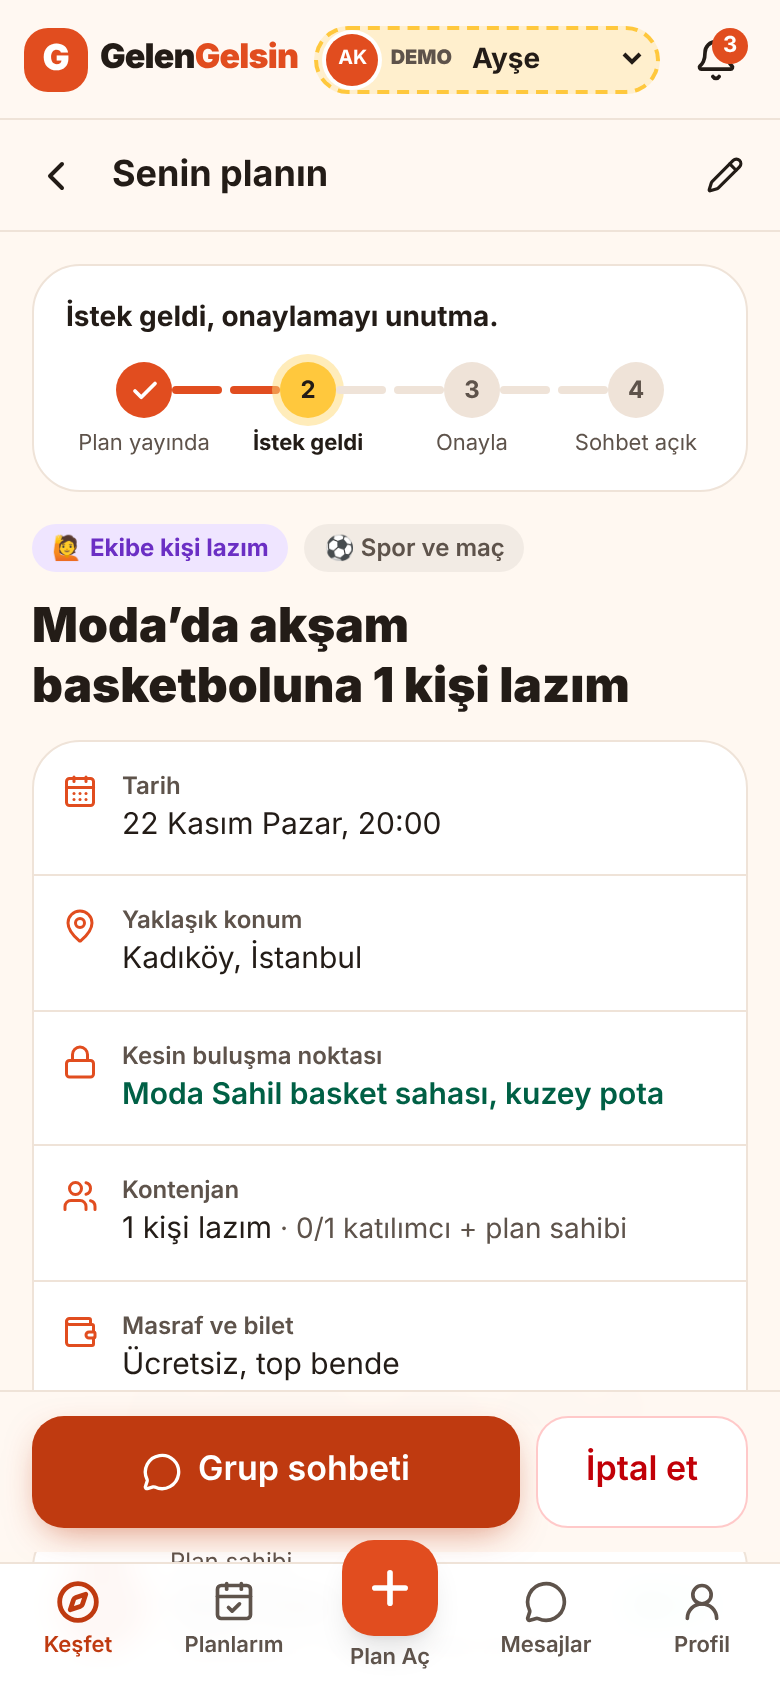
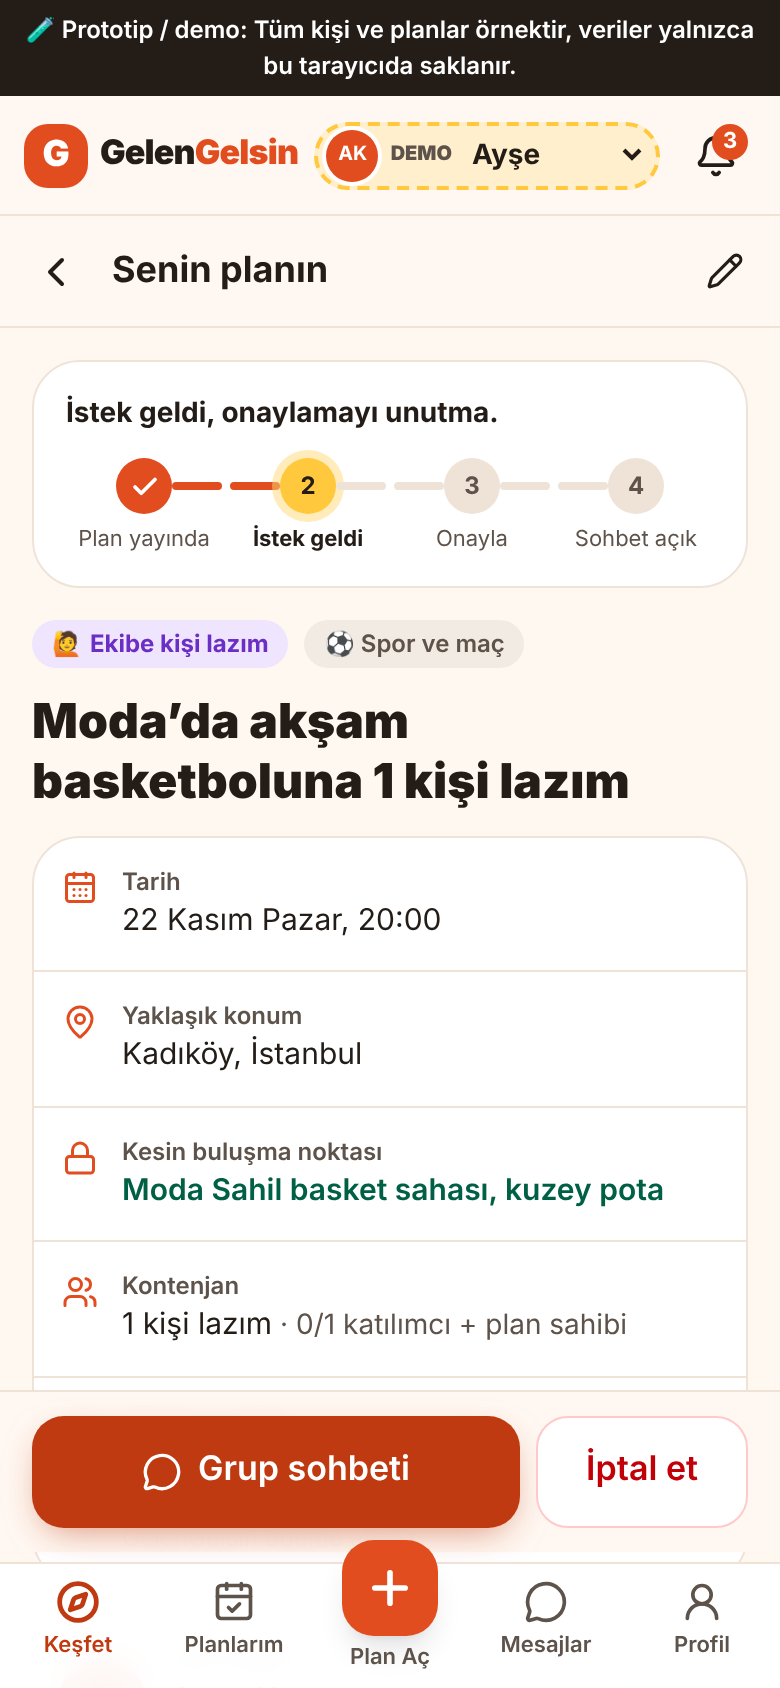
GelenGelsin: herkese açık demo için prototip uyarı şeridi
Claude-Session: https://claude.ai/code/session_01FzjmZCBzj6fXiRGvcmLzs2

diff --git a/gelengelsin/src/App.tsx b/gelengelsin/src/App.tsx
@@ -126,6 +126,9 @@ export default function App() {
   const { userId } = useStore();
   return (
     <div className="mx-auto min-h-dvh max-w-md bg-cream shadow-[0_0_60px_rgba(0,0,0,.08)]">
+      <div className="bg-ink px-3 py-1.5 text-center text-[12px] font-semibold text-white" role="note" data-testid="prototype-banner">
+        🧪 Prototip / demo: Tüm kişi ve planlar örnektir, veriler yalnızca bu tarayıcıda saklanır.
+      </div>
       <Header />
       {/* Kullanıcı değişince ekran durumu sıfırlansın diye key */}
       <main key={userId} className="pb-28">
